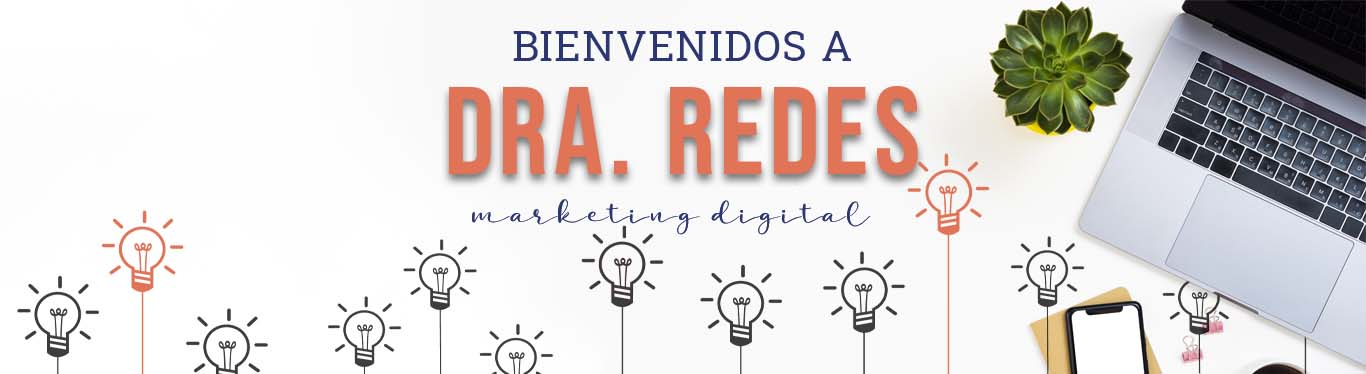
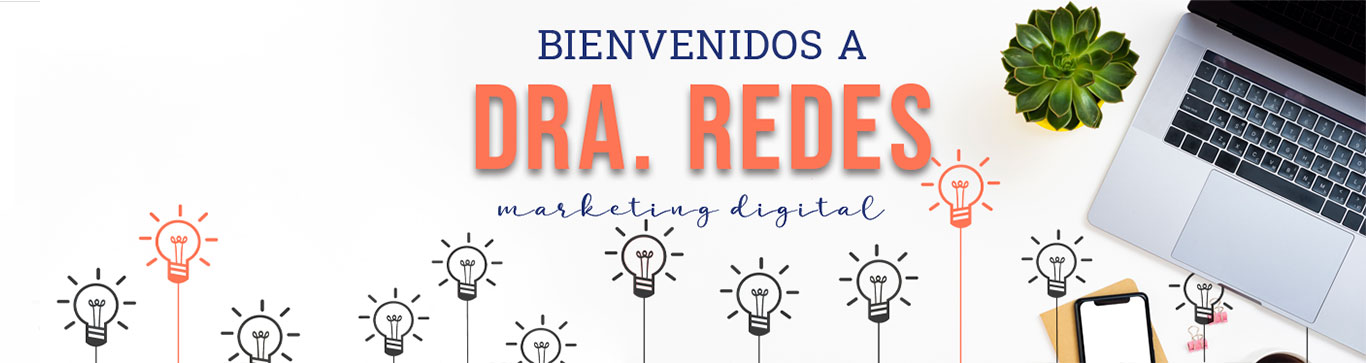
scroll corregido

diff --git a/index.html b/index.html
@@ -13,7 +13,7 @@
         <link rel="preconnect" href="https://fonts.gstatic.com">
     </head>
     <body>
-        <img src="images/banner.jpg" alt="Bienvenidos a Dra Redes" class="col-lg-12 col-md-12 col-sm-12" data-aos="zoom-in" data-aos-duration="15000">
+        <img src="images/banner.jpg" alt="Bienvenidos a Dra Redes" width="100%" data-aos="zoom-in" data-aos-duration="15000">
         <header>
               <nav class="navbar navbar-expand-lg navbar-light bg-light z-index nav-fill" data-aos="zoom-in-up">
                  <button class="navbar-toggler" type="button" data-toggle="collapse" data-target="#navbarNav" aria-controls="navbarNav" aria-expanded="false" aria-label="Toggle navigation">
@@ -39,7 +39,7 @@
             <div class="parrafos hijosGrid">Lorem ipsum dolor sit amet consectetur adipisicing elit. Expedita aliquam nihil in obcaecati iste architecto. Et nam rem veritatis sit, ducimus provident, consequuntur eveniet optio unde in accusamus suscipit non? Lorem ipsum dolor sit amet consectetur adipisicing elit. Vitae, iste beatae accusamus quas magni quos sequi eveniet reiciendis dolorem totam aliquam nobis accusantium unde quo nostrum quidem nesciunt saepe! Laborum.Lorem ipsum dolor sit amet consectetur adipisicing elit. Expedita aliquam nihil in obcaecati iste architecto. Et nam rem veritatis sit, ducimus provident, consequuntur eveniet optio unde in accusamus suscipit non? Lorem ipsum dolor sit amet consectetur adipisicing elit. Vitae, iste beatae accusamus quas magni quos sequi eveniet reiciendis dolorem totam aliquam nobis accusantium unde quo nostrum quidem nesciunt saepe! Laborum.Lorem  <a href="sobremi.html" class="naranja">Ver mas</a></div>
         </div> -->
 
-        <main class="row">
+        <div class="container-fluid"><main class="row">
           <article class="col-lg-7 col-md-8 col-sm-12">
           <h2 data-aos="zoom-in">Sobre mi</h2>
           <p data-aos="fade-right"><strong>Hola, bienvenidos a mi espacio!</strong></p>
@@ -47,21 +47,21 @@
           <p data-aos="fade-right">Por eso hace bastante tiempo que me vengo capacitando en el área, esencialmente para mi emprenimiento y por interes personal. Después decidí avanzar un poquito más en este mundo y hoy soy Community Manager.
             Dra Redes surgió como un concepto de unir mis dos pasiones y <em><strong>ayudarte a mejorar la imagen y posicionamiento de tu marca en los medios digitales</strong></em>.</p>
           <p data-aos="fade-up" class="p2"> Te sumas?</p>
-          <p><button type="button" class="btn btn-info" href="pages/sobremi.html">Ver más</button></p>
+          <p><button type="button" class="btn btn-info boton" href="pages/sobremi.html">Ver más</button></p>
           </article>
           <aside class="col-lg-5 col-md-4 col-sm-12">
           <img src="images/sobremi.jpg" alt="Yo" data-aos="fade-left" >
          </aside>
         </main>
 
-        <section class="row seccion">
+        <section class="row seccionInicio">
             <h2 class="tituloAzul col-lg-12 col-md-12 col-sm-12">Proyectos</h2>
             <div class="card col-lg-3 col-md-3 col-sm-12 cardP" style="width: 18rem;" data-aos="fade-up">
               <img class="card-img-top" src="images/instagrampng.png" alt="Card image cap">
               <div class="card-body">
                 <h5 class="card-title">Queserías del Litoral</h5>
                 <p class="card-text">Some quick example text to build on the card title and make up the bulk of the card's content.</p>
-               <p><a href="#" class="btn btn-primary">Mirá el proyecto!</a></p> 
+               <p><a href="#" class="btn btn-primary boton">Mirá el proyecto!</a></p> 
               </div>
             </div>
             <div class="card col-lg-3 col-md-3 col-sm-12 cardP" style="width: 18rem;"data-aos="fade-up">
@@ -69,7 +69,7 @@
               <div class="card-body">
                 <h5 class="card-title">Cosmetología en Casa</h5>
                 <p class="card-text">Some quick example text to build on the card title and make up the bulk of the card's content.</p>
-              <p><a href="#" class="btn btn-primary">Mirá el proyecto!</a></p> 
+              <p><a href="#" class="btn btn-primary boton">Mirá el proyecto!</a></p> 
               </div>
             </div>
             <div class="card col-lg-3 col-md-3 col-sm-12 cardP" style="width: 18rem;" data-aos="fade-up">
@@ -77,11 +77,12 @@
               <div class="card-body">
                 <h5 class="card-title">Gin de</h5>
                 <p class="card-text">Some quick example text to build on the card title and make up the bulk of the card's content.</p>
-              <p><a href="#" class="btn btn-primary">Mirá el proyecto!</a></p> 
+              <p><a href="#" class="btn btn-primary boton">Mirá el proyecto!</a></p> 
               </div>
             </div>
 
-        </section>   
+        </section>
+      </div>   
 
         <div id="carouselExampleControls" class="carousel slide" data-ride="carousel">
           <div class="carousel-inner">

diff --git a/pages/blog.html b/pages/blog.html
@@ -13,7 +13,7 @@
         <link href="https://fonts.googleapis.com/css2?family=Cookie&display=swap" rel="stylesheet">
     </head>
     <body>
-        <img src="../images/banner.jpg" alt="Bienvenidos a Dra Redes" class="col-lg-12 col-md-12 col-sm-12">
+        <img src="../images/banner.jpg" alt="Bienvenidos a Dra Redes" width="100%">
         <header>
             <nav class="navbar navbar-expand-lg navbar-light bg-light z-index nav-fill">
                 <button class="navbar-toggler" type="button" data-toggle="collapse" data-target="#navbarNav" aria-controls="navbarNav" aria-expanded="false" aria-label="Toggle navigation">
@@ -36,16 +36,51 @@
          <p class="blog">En esta biblioteca digital vas a poder encontrar articulos propios y de colegas ideales 
            para aprender a impulsar tu negocio</p>
 
-           <section class="arti row">
-            <div class="card" style="width: 18rem;">
-              <img src="..." class="card-img-top" alt="...">
+           <section class="row seccion">
+            <div class="card card col-lg-3 col-md-3 col-sm-12" style="width: 18rem;">
+              <img src="../images/woman-showing-an-instagram-icon.jpg" class="card-img-top" alt="..."><a href='https://www.freepik.es/fotos/fondo'></a>
               <div class="card-body">
-                <h5 class="card-title">Card title</h5>
-                <p class="card-text">Some quick example text to build on the card title and make up the bulk of the card's content.</p>
-                <p><a href="#" class="btn btn-primary">DESCARGÁ AQUÍ</a></p>
+                <h5 class="card-title">Novedades sobre Instagram en 2021</h5>
+                <p class="card-text">Conocé antes que nadie lo que se viene de nuevo en esta red social y así sacarle el mejor provecho para tu emprendimiento.</p>
+                <p><a href="#" class="btn btn-primary botonBlog">Seguir leyendo</a></p>
+              </div>
+            </div>
+            <div class="card card col-lg-3 col-md-3 col-sm-12" style="width: 18rem;">
+              <img src="../images/3899614.jpg" class="card-img-top" alt="..."><a href='https://www.freepik.es/fotos/fondo'></a>
+              <div class="card-body">
+                <h5 class="card-title">La importancia de planificar</h5>
+                <p class="card-text">A la hora de llevar las redes sociales tuya o de tus clientes uno de los pilares es la organización. Te traemos unos tips!</p>
+                <p><a href="https://www.instagram.com/p/CJwkVMLMswK/" class="btn btn-primary botonBlog">Seguir leyendo</a></p>
+              </div>
+            </div>
+            <div class="card card col-lg-3 col-md-3 col-sm-12" style="width: 18rem;">
+              <img src="../images/POST2.jpg" class="card-img-top" alt="..."><a href='https://www.freepik.es/fotos/fondo'></a>
+              <div class="card-body">
+                <h5 class="card-title">El rol de las redes sociales</h5>
+                <p class="card-text">Para manejar las redes como un experto, primero hay que conocerlas en profundidad</p>
+                <p><a href="https://www.instagram.com/p/CJwiiLDs7Jx/" class="btn btn-primary botonBlog">Seguir leyendo</a></p>
               </div>
             </div>
         </section> 
+        <section class="row seccion">
+          <div class="card card col-lg-3 col-md-3 col-sm-12" style="width: 18rem;">
+            <img src="../images/POST6.jpg" class="card-img-top" alt="..."><a href='https://www.freepik.es/fotos/fondo'></a>
+            <div class="card-body">
+              <h5 class="card-title">Cliente Ideal</h5>
+              <p class="card-text">Para armar una buena estrategia en redes no podes dejar de conocer en profundidad a tu cliente ideal</p>
+              <p><a href="#" class="btn btn-primary botonBlog">Seguir leyendo</a></p>
+            </div>
+          </div>
+          <div class="card card col-lg-3 col-md-3 col-sm-12" style="width: 18rem;">
+            <img src="../images/loei-thailand-may-10-2017-hand-holding-samsung-s8-with-mobile-application-instagram-screen.jpg" class="card-img-top" alt="..."><a href='https://www.freepik.es/fotos/fondo'></a>
+            <div class="card-body">
+              <h5 class="card-title">Como funciona el Algoritmo de Instagram</h5>
+              <p class="card-text">Lo que nadie te cuenta acerca del famoso algoritmo de instagram, se puede hackear?</p>
+              <p><a href="https://www.instagram.com/p/CJwkVMLMswK/" class="btn btn-primary botonBlog">Seguir leyendo</a></p>
+            </div>
+          </div>
+        
+      </section> 
            
         <footer class="fondoFooter col-lg-12 col-md-12 col-sm-12">
             <p>By Camila De Rosa</p>

diff --git a/pages/recursos.html b/pages/recursos.html
@@ -8,9 +8,10 @@
         <link rel="stylesheet" href="../css/bootstrap.min.css">
         <link rel="stylesheet" href="../css/estilo.css">
         <link rel="stylesheet" href="../css/pruebacss.css">
+        <link href="https://fonts.googleapis.com/css2?family=Cookie&display=swap" rel="stylesheet">
     </head>
     <body>
-        <img src="../images/banner.jpg" alt="Bienvenidos a Dra Redes" class="col-lg-12 col-md-12 col-sm-12">
+        <img src="../images/banner.jpg" alt="Bienvenidos a Dra Redes" width="100%">
         <header>
               <nav class="navbar navbar-expand-lg navbar-light bg-light z-index nav-fill">
                  <button class="navbar-toggler" type="button" data-toggle="collapse" data-target="#navbarNav" aria-controls="navbarNav" aria-expanded="false" aria-label="Toggle navigation">
@@ -31,8 +32,26 @@
         </header>
 
         
-          <h2 class="tituloAzul col-lg-12 col-md-12 col-sm-12">Recursos Gratuitos</h2>
+          <h1 class="tituloAzul col-lg-12 col-md-12 col-sm-12">Recursos Gratuitos</h1>
+          <p class="blog">En esta seccion voy a estar compartiendote recursos exclusivos y gratuitos que te van 
+            a ayudar con tu emprendimiento y tus redes sociales
+          </p>
           
+          <section class="descripcionServiciosBlanco row">
+            <aside class="col-lg-6 col-md-6 col-sm-12">
+              <img src="../images/3899614.png" alt="consultoria" data-aos="fade-right" class="calendario">
+            </aside>
+            <article class="col-lg-6 col-md-6 col-sm-12">
+              <h2 data-aos="fade-up">Calendario 2021</h2>
+            <div><p data-aos="fade-right"></p>
+              <p data-aos="fade-left">Calendario completisimo para que puedas organizar tu instagram o los de tus clientes. Con pestaña para objetivos, fechas importantes mes a mes y organigrama semanal de posteos.
+
+                <p>¿Estás listo para programar tus redes?</p>
+              </p>
+              <p><button type="button" class="btn botonNaranja" href="">DESCARGAR</button></p> <!-- Agregar link a formulario -->
+            </div>  
+            </article>
+          </section> 
 
         <footer class="fondoFooter col-lg-12 col-md-12 col-sm-12">
           <p>By Camila De Rosa</p>

diff --git a/pages/contacto.html b/pages/contacto.html
@@ -11,7 +11,7 @@
         <link rel="stylesheet" href="../css/pruebacss.css">
     </head>
     <body>
-        <img src="../images/banner.jpg" alt="Bienvenidos a Dra Redes" class="col-lg-12 col-md-12 col-sm-12">
+        <img src="../images/banner.jpg" alt="Bienvenidos a Dra Redes" width="100%">
         <header>
             <nav class="navbar navbar-expand-lg navbar-light bg-light z-index nav-fill">
                 <button class="navbar-toggler" type="button" data-toggle="collapse" data-target="#navbarNav" aria-controls="navbarNav" aria-expanded="false" aria-label="Toggle navigation">
@@ -31,6 +31,30 @@
              </nav>
         </header>
 
+        <h1 class="contacto">Contacto</h1>
+        <p class="blog">En esta página seguro ya viste mucha info mia, pero quiero saber mas de vos. Tenes alguna duda acerca de mis servicios? Queres que trabajemos juntos? Te leo y voy a intentar responder lo mas rápido posible</p>
+       
+        <main class="row seccion">
+          <aside class="col-lg-5 col-md-5 col-sm-12">
+            <img src="../images/contacto.jpg" alt="Yo" data-aos="fade-righ">
+           </aside>
+        <form class="form col-lg-6 col-md-6 col-sm-12" data-aos="fade-left">
+          <div class="form-group">
+            <label for="formGroupExampleInput"></label>
+            <input type="text" class="form-control" id="formGroupExampleInput" placeholder="Nombre">
+          </div>
+          <div class="form-group">
+            <label for="formGroupExampleInput2"></label>
+            <input type="text" class="form-control" id="formGroupExampleInput2" placeholder="Email">
+          </div>
+          <div class="form-group">
+            <label for="exampleFormControlTextarea1"></label>
+            <input type="text" class="form-control" id="exampleFormControlTextarea1" placeholder="Mensaje">
+            <textarea class="form-control" id="exampleFormControlTextarea1" rows="3"></textarea>
+          </div>
+          <p><a href="#" class="btn btn-primary botonBlog">Enviar</a></p>
+        </form>
+      </main>
 
         <footer class="fondoFooter col-lg-12 col-md-12 col-sm-12">
             <p>By Camila De Rosa</p>

diff --git a/css/estilo.css b/css/estilo.css
@@ -2,6 +2,9 @@
   padding: 0px;
   box-sizing: border-box;
 }
+body{
+    overflow-x: hidden;
+ }
 
 header {position: sticky;
     top: 0px ;
@@ -87,10 +90,15 @@ p {
         animation-duration: 2s;
     animation-name: aparecer;}   
 .seccion {
-        background-color:#E17457 ;
         display: flex;
         justify-content: space-around;
+        margin-top: 20px ;
     }    
+.seccionInicio {
+    display: flex;
+    justify-content: space-around;
+    background-color:#E17457 ;
+}    
 
 .cardP {
     margin: 0px;
@@ -105,7 +113,7 @@ h5 {
 .card-text {
     color: #3d3c3c;
 }
-.btn {
+.boton {
     background-color:#2C3673;
     text-align: center;
 }
@@ -145,4 +153,21 @@ h1 {
     color:#3d3d3d;
     font-size: large;
     font-weight: bold;
+}
+.botonBlog {
+    background-color: #DB2E62 !important;
+    text-align: center;
+}
+.contacto {
+    font-family: 'Bebas Neue', cursive;
+    font-size: 65px;
+    text-align: center;
+            font-size: 90px;
+            text-align: center;
+            margin: 30px;
+    color: #DB2E62;        
+    }
+.calendario {
+    width: 400px;
+    height: 400px;
 }

diff --git a/pages/servicios.html b/pages/servicios.html
@@ -13,7 +13,7 @@
         <link href="https://fonts.googleapis.com/css2?family=Cookie&display=swap" rel="stylesheet">
     </head>
     <body>
-        <img src="../images/banner.jpg" alt="Bienvenidos a Dra Redes" class="col-lg-12 col-md-12 col-sm-12">
+        <img src="../images/banner.jpg" alt="Bienvenidos a Dra Redes" width="100%">
         <header>
             <nav class="navbar navbar-expand-lg navbar-light bg-light z-index nav-fill">
                 <button class="navbar-toggler" type="button" data-toggle="collapse" data-target="#navbarNav" aria-controls="navbarNav" aria-expanded="false" aria-label="Toggle navigation">

diff --git a/pages/sobremi.html b/pages/sobremi.html
@@ -11,7 +11,7 @@
         <link rel="stylesheet" href="../css/pruebacss.css">
     </head>
     <body>
-        <img src="../images/banner.jpg" alt="Bienvenidos a Dra Redes" class="col-lg-12 col-md-12 col-sm-12">
+        <img src="../images/banner.jpg" alt="Bienvenidos a Dra Redes" width="100%">
         <header>
             <nav class="navbar navbar-expand-lg navbar-light bg-light z-index nav-fill">
                 <button class="navbar-toggler" type="button" data-toggle="collapse" data-target="#navbarNav" aria-controls="navbarNav" aria-expanded="false" aria-label="Toggle navigation">
